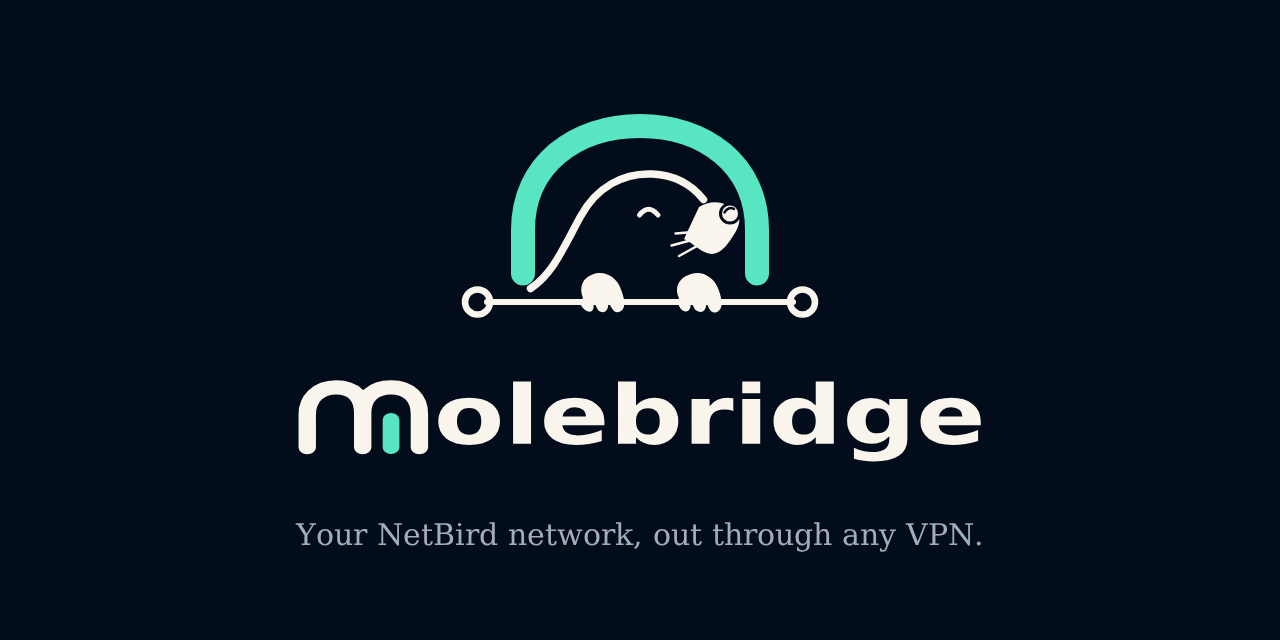
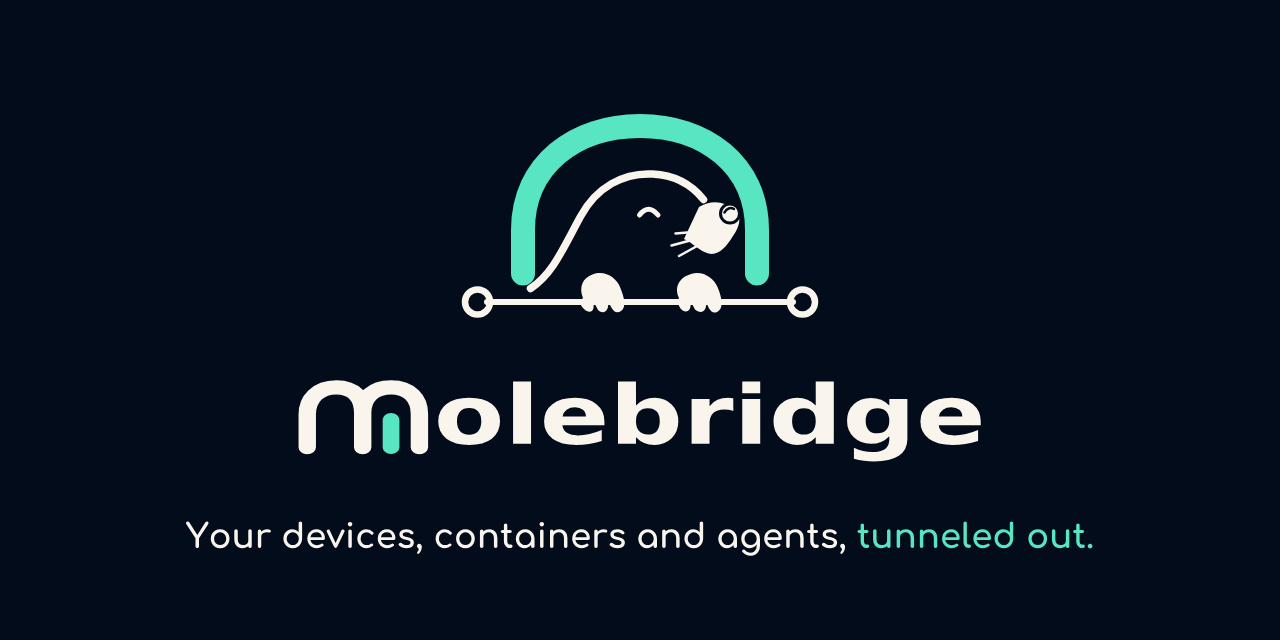
New tagline: your devices, containers and agents, tunneled out (#51)
The maintainer chose the line and its look on 2026-11-19: Comfortaa Bold,
with "tunneled out." in the arch's teal, replacing "Your NetBird network,
out through any VPN." The text is converted to outlines in the banner and
the social preview, so they no longer depend on an installed font (the old
preview had been rendered with a serif fallback). The social preview's SVG
source is added beside the PNG, and the logo notice credits Comfortaa
(OFL 1.1).

Changed region(s): [[0.125, 0.8125, 0.8438, 0.875]]

diff --git a/docs/assets/brand/NOTICE.md b/docs/assets/brand/NOTICE.md
@@ -15,3 +15,10 @@ These files are the logo:
 The panel's icons are built into the `molebridge` binary and the image, and
 those files stay all rights reserved there too. If you distribute a modified
 Molebridge, replace them with your own.
+
+The tagline in the banner and the social preview ("Your devices, containers
+and agents, tunneled out.") is set in Comfortaa Bold, converted to outlines.
+Comfortaa is © 2011 The Comfortaa Project Authors, under the
+[SIL Open Font License 1.1](https://github.com/googlefonts/comfortaa/blob/main/OFL.txt).
+No font file is included. `social-preview.svg` is the source of
+`social-preview.png`.
